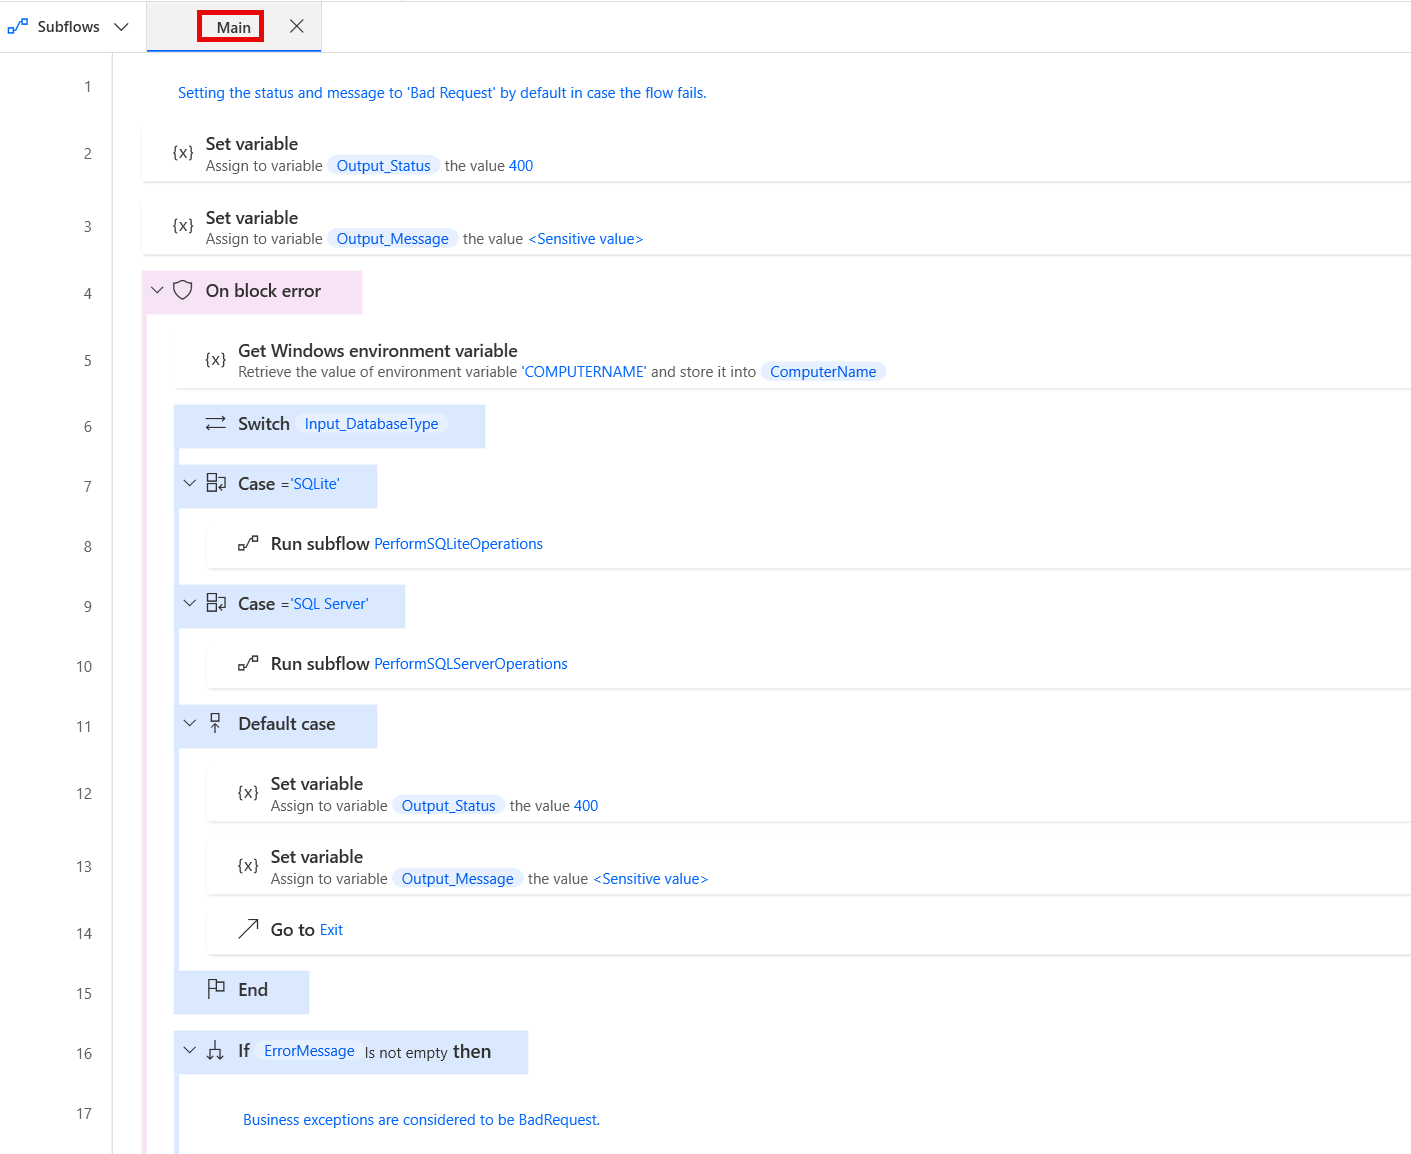
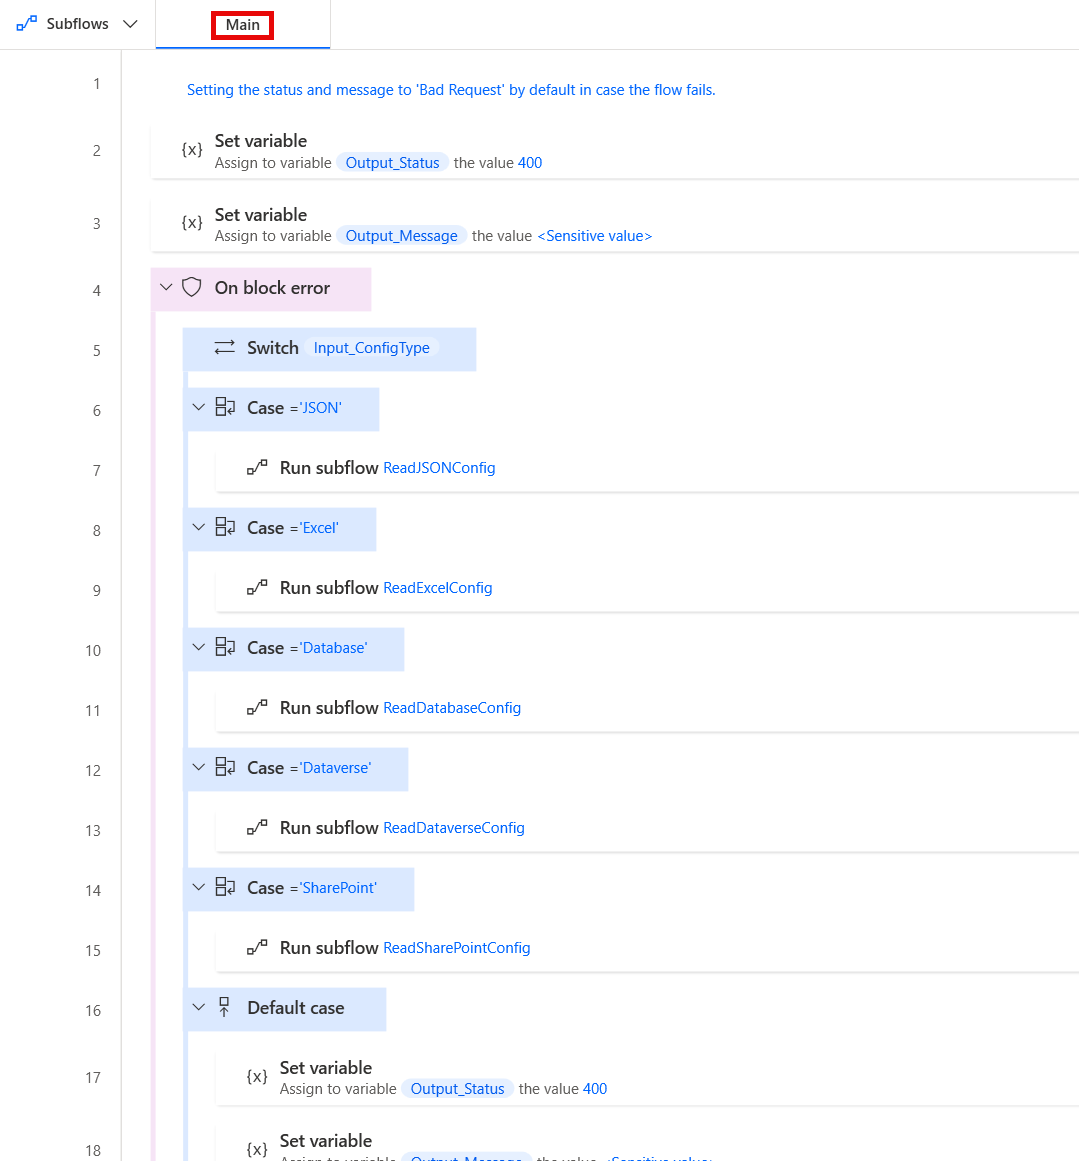
added remaining ConfigReader subflows, updated assets and readme

Changed region(s): [[0.0918, 0.0, 0.6728, 1.0], [0.0, 0.0, 0.0918, 0.0312], [0.4588, 0.1248, 0.4893, 0.156]]

diff --git a/config-reader/README.md b/config-reader/README.md
@@ -15,8 +15,17 @@ The code currently does not have a version for flows with Power Fx enabled. Howe
 
 There are several inputs required by this flow, and a couple that are optional (depending on other parameters):
 
-1. **Input_ConfigAddress** - Should contain the connection string or a site address when the config type is 'Database' or 'SharePoint' respectively, or a file path when the type is 'Excel'. Should be marked as **sensitive** in case the string contains any sensitive information, such as credentials. Should also be marked as **optional** as it is optional for other config types.
-1. **Input_ConfigPath** - Should contain the path to the config data. Should contain the file path when the config type is 'JSON', a sheet name when the type is 'Excel', a list name when the type is 'SharePoint', a table name when the type is 'Dataverse', or either a table name (not recommended) or a stored procedure name when the type is 'Database'. Should be marked as **sensitive** in case it contains any sensitive information.
+1. **Input_ConfigAddress** - Should contain the address for where the config resource is stored. Should be marked as **sensitive** in case the string contains any sensitive information, such as credentials. Should also be marked as **optional** as it is optional for other config types. For the types where it is necessary, the flow expects it to contain:
+    - the connection string the config type is 'Database'
+    - the site address when the type is 'SharePoint'
+    - the environment URL when the type is 'Dataverse' (can be found in the environment details in the PP admin center)
+    - the file path when the type is 'Excel'
+1. **Input_ConfigPath** - Should contain the path to the config data. Should be marked as **sensitive** in case it contains any sensitive information. The flow expects it to contain:
+    - the file path when the config type is 'JSON'
+    - a sheet name when the type is 'Excel' 
+    - a list name when the type is 'SharePoint' 
+    - a table logical name when the type is 'Dataverse'
+    - a stored procedure name when the type is 'Database'
 1. **Input_ConfigType** - Should contain the config type. Currently supported options are:
     1. JSON
     1. Excel
@@ -62,44 +71,28 @@ The flow produces several output variables that are returned to the parent flow 
         1. Output_Status (Data type: Number; Mark as sensitive - False)
 
 1. Create new subflows (see **Notes**): 
-    1. **PerformSQLServerOperations** 
-    1. **PerformSQLiteOperations** 
-    1. **SQLServerCompleteWorkItem**
-    1. **SQLServerGetWorkItem**
-    1. **SQLServerUpsertWorkItem**
-    1. **SQLiteCompleteWorkItem**
-    1. **SQLiteGetProjectId**
-    1. **SQLiteGetStatuses**
-    1. **SQLiteGetUnprocessedWorkItem**
-    1. **SQLiteGetWorkItem**
-    1. **SQLiteInsertWorkItemResult**
-    1. **SQLiteUpdateAccumulatedRunTime**
-    1. **SQLiteUpdateFlowName**
-    1. **SQLiteUpdateWorkItemStatus**
-    1. **SQLiteUpsertWorkItem**
+    1. **ConvertTabularConfigToCustomObject** 
+    1. **ReadDatabaseConfig** 
+    1. **ReadDataverseConfig**
+    1. **ReadExcelConfig**
+    1. **ReadJSONConfig**
+    1. **ReadSharePointConfig**
+    1. **RunExcelCloser**
 1. Copy the code in the .txt files in `\source\` and paste it into Power Automate Desktop flow designer window into the appropriate subflows (see **Notes**):
     1. **main.txt** to the **Main** subflow
-    1. **perform-sql-server-operations.txt** to the **PerformSQLServerOperations** subflow
-    1. **perform-sqlite-operations.txt** to the **PerformSQLiteOperations** subflow
-    1. **sql-server-complete-work-item.txt** to the **SQLServerCompleteWorkItem** subflow
-    1. **sql-server-get-work-item.txt** to the **SQLServerGetWorkItem** subflow
-    1. **sql-server-upsert-work-item.txt** to the **SQLServerUpsertWorkItem** subflow
-    1. **sqlite-complete-work-item.txt** to the **SQLiteCompleteWorkItem** subflow
-    1. **sqlite-get-project-id.txt** to the **SQLiteGetProjectId** subflow
-    1. **sqlite-get-statuses.txt** to the **SQLiteGetStatuses** subflow
-    1. **sqlite-get-unprocessed-work-item.txt** to the **SQLiteGetUnprocessedWorkItem** subflow
-    1. **sqlite-get-work-item.txt** to the **SQLiteGetWorkItem** subflow
-    1. **sqlite-insert-work-item-result.txt** to the **SQLiteInsertWorkItemResult** subflow
-    1. **sqlite-update-accumulated-run-time.txt** to the **SQLiteUpdateAccumulatedRunTime** subflow
-    1. **sqlite-update-flow-name.txt** to the **SQLiteUpdateFlowName** subflow
-    1. **sqlite-update-work-item-status.txt** to the **SQLiteUpdateWorkItemStatus** subflow
-    1. **sqlite-upsert-work-item.txt** to the **SQLiteUpsertWorkItem** subflow
+    1. **convert-tabular-config-to-custom-object.txt** to the **ConvertTabularConfigToCustomObject** subflow
+    1. **read-database-config.txt** to the **ReadDatabaseConfig** subflow
+    1. **read-dataverse-config.txt** to the **ReadDataverseConfig** subflow
+    1. **read-excel-config.txt** to the **ReadExcelConfig** subflow
+    1. **read-json-config.txt** to the **ReadJSONConfig** subflow
+    1. **read-sharepoint-config.txt** to the **ReadSharePointConfig** subflow
+    1. **run-excel-closer.txt** to the **RunExcelCloser** subflow
 1. Review the code for any syntax errors
 
     ![View of the code in the Main subflow in PAD](./assets/main-subflow-example.png)
 
 1. Click **Save** in the flow designer
-1. Add the **PADFramework: WorkItemHandler** flow to the **PADFramework** solution for exporting it to other environments
+1. Add the **PADFramework: ConfigReader** flow to the **PADFramework** solution for exporting it to other environments
 
     ![View of the menu path to add an existing desktop flow to a solution](./assets/adding-existing-desktop-flow-to-solution.png)
 
@@ -113,6 +106,10 @@ The flow produces several output variables that are returned to the parent flow 
 The Framework should have its own dedicated development environment. This is the only environment where the Framework should reside as an unmanaged solution. 
 
 It should be imported as a managed solution to all other environments where flows will use the framework, including normal DEV, TEST, UAT and other non-production environments. This is so that changes cannot be made to the framework outside of its own DEV environment, but it can be used by calling utility flows such as the **WorkItemHandler** as child flows, as well as making copies of the template flows for new projects.
+
+### Different types of configs
+
+In most organizations, you would normally not want to have different types of storage for external configs being used across flows. It's best to pick one and stick to that. So, you do not actually need to create all of the subflows listed here, as this adds extra complexity where it is not necessary. Feel free to just go with the one type of config you prefer.
 
 ### Using direct SQL Statements vs Stored Procedures in SQL Server
 
